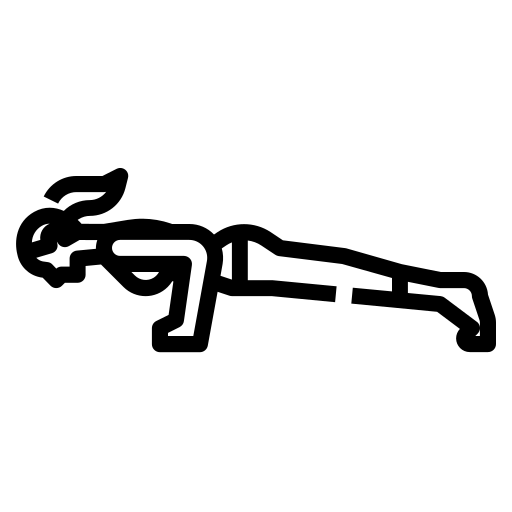
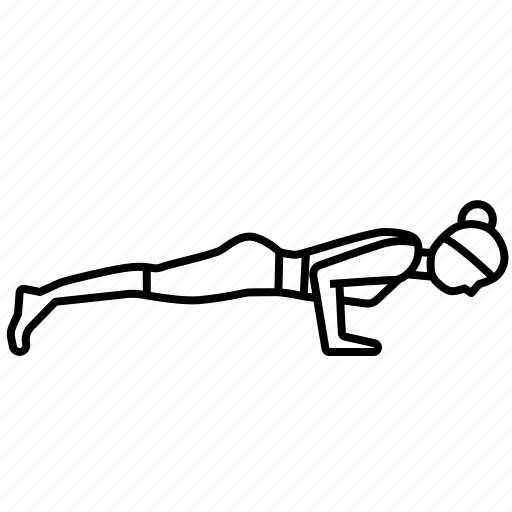
birthday yoga

Changed region(s): [[0.0, 0.3125, 1.0, 0.7188]]

diff --git a/_layouts/yoga.html b/_layouts/yoga.html
@@ -38,7 +38,9 @@ categories: yoga
             <br>
             
             
-           <center>      <iframe style="border-radius:12px" src="https://open.spotify.com/embed/playlist/{{ post.spotify }}?utm_source=generator&theme=0" width="80%" height="152" frameBorder="0" allowfullscreen="" allow="autoplay; clipboard-write; encrypted-media; fullscreen; picture-in-picture" loading="lazy"></iframe> </center> 
+        
+           
+           
     {% endif %}
 
 

diff --git a/_includes/nav.html b/_includes/nav.html
@@ -41,6 +41,9 @@
   
     <li><a href="https://www.linkedin.com/in/rayna-harris-484802ba/" class="icon fa-linkedin" rel="nofollow"><span class="label">LinkedIn</span></a></li>
 
+  <li><a href="https://open.spotify.com/user/22thoad6mmuz725fpqcs5rera" class="icon fa-spotify" rel="me"><span class="label">Spotify</span></a></li>
+  
+
 
   <li><a href="https://twitter.com/raynamharris" class="icon fa-twitter" rel="me"><span class="label">Twitter</span></a></li>
   

diff --git a/assets/css/main.css b/assets/css/main.css
@@ -4491,6 +4491,15 @@
   margin-left: 3%
 }
 
+/* Three image containers (use 25% for four, and 50% for two, etc) */
+.column4 {
+  float: left;
+  width: 20%;
+  padding: 5px;
+  margin-left: 3%
+}
+
+
 /* Clear floats after image containers */
 .row::after {
   content: "";

diff --git a/_posts/2023-10-08-birthday-yoga.md b/_posts/2023-10-08-birthday-yoga.md
@@ -2,24 +2,203 @@
 layout: post
 title: "Birthday Beach Yoga and Breathwork"
 date: 2023-10-08
-excerpt: "A Funky Hip Opening Flow for a Birthday Party on the Beach"
-image: "/images/yoga/butterfly.png"
+excerpt: "For my 40th birthday I organized a beach yoga class. The playlist was designed to bring awareness to the breath and the beauty of nature. It was awesome!"
+image: "/images/yoga/birthday.png"
 categories: yoga
+spotify: 2rf0dgJFl3iaoMGyjNXfpX
 ---
 
+## The Flow
+
+#### Guided Meditation 🎶 *Kusanagi*
+
+<div class="row">
+  <div class="column">
+    <img src="/images/yoga/lotus-meditation.png" alt="Easy Pose" style="width:40%">
+    <figcaption><i>Easy Pose<p></p></i></figcaption>
+</div>
+</div>
 
 
-- **Finally Moving** - Breathwork + Intentions in Mountain or Lotus (depending on vibes)
-- **Love is Alive** - Mountain, Forward Fold, Chair
-- **Money for Nothing** - Corework (Boat, Twisted Boat, Low Boat), Butterfly, Wide angle
-- **Say So** - Wide angle, Godess, Warrior II, Wide angle
-- **Atomic Dog** - Down Dog + Cat Flow, 3 Legged Dog + Lizard Flow, Flipped Dog
-- **Holiday** - Plank + Fallen Star
-- **Evan Finds the 3rd Room** - Seated and reclined twists with wide legs
-- **Fade into You** - Legs up the wall, Hug, Happy Baby
-- **Om** - Shavasan + Breathwork
-- **Kusanagi** - Stretch + Intention + Breathwork + Namas Day + Thanks
+#### Opening Stretch  🎶 *Fantasy*
+
+<div class="row">
+  <div class="column4">
+    <img src="/images/yoga/lions-breath.png" alt="Hero Pose" style="width:40%">
+    <figcaption><i>Hero Pose<p></p></i></figcaption>
+</div>
+  <div class="column4">
+    <img src="/images/yoga/tabletop.png" alt="Table" style="width:40%">
+    <figcaption><i>Table<p></p></i></figcaption>
+  </div>
+  <div class="column4">
+    <img src="/images/yoga/cat.png" alt="Cat" style="width:40%">
+    <figcaption><i>Cat<p></p></i></figcaption>
+  </div>
+  <div class="column4">
+    <img src="/images/yoga/cow.png" alt="Cow" style="width:40%">
+    <figcaption><i>Cow<p></p></i></figcaption>
+  </div>
+</div>
+
+#### Standing Poses  🎶 *Love is Alive*
 
 
+<div class="row">
+  <div class="column4">
+    <img src="/images/yoga/mountain.png" alt="Mountain" style="width:40%">
+    <figcaption><i>Mountain<p></p></i></figcaption>
+  </div>
+  <div class="column4">
+    <img src="/images/yoga/mountain-extended.png" alt="Extended Mountain" style="width:40%">
+    <figcaption><i>Extended Mountain<p></p></i></figcaption>
+  </div>
+  <div class="column4">
+    <img src="/images/yoga/forward-fold-1.png" alt="Forward Fold" style="width:40%">
+    <figcaption><i>Forward Fold<p></p></i></figcaption>
+  </div>
+  <div class="column4">
+    <img src="/images/yoga/chair.png" alt="Chair" style="width:40%">
+    <figcaption><i>Chair<p></p></i></figcaption>
+  </div>
+</div>
+
+#### Core Work  🎶 *Money for Nothing*
+
+<div class="row">
+  <div class="column4">
+    <img src="/images/yoga/tree.png" alt="Tree" style="width:40%">
+    <figcaption><i>Tree<p></p></i></figcaption>
+  </div>
+  <div class="column4">
+    <img src="/images/yoga/boat.png" alt="Boat" style="width:40%">
+    <figcaption><i>Boat<p></p></i></figcaption>
+  </div>
+  <div class="column4">
+    <img src="/images/yoga/butterfly.png" alt="Butterfly" style="width:40%">
+    <figcaption><i>Butterfly<p></p></i></figcaption>
+  </div>
+  <div class="column4">
+    <img src="/images/yoga/stretching.png" alt="Stretching" style="width:40%">
+    <figcaption><i>Forward Fold<p></p></i></figcaption>
+  </div>
+</div>
+
+
+#### Leg Work  🎶 *Say So*
+
+<div class="row">
+  <div class="column4">
+    <img src="/images/yoga/star.png" alt="star" style="width:40%">
+    <figcaption><i>Star<p></p></i></figcaption>
+  </div>
+  <div class="column4">
+    <img src="/images/yoga/goddess.png" alt="Goddess" style="width:40%">
+    <figcaption><i>Goddess<p></p></i></figcaption>
+  </div>
+  <div class="column4">
+    <img src="/images/yoga/warrior2-2.png" alt="Warrior II" style="width:40%">
+    <figcaption><i>Warrior II<p></p></i></figcaption>
+  </div>
+   <div class="column4">
+    <img src="/images/yoga/extended.png" alt="Side Angle Pose" style="width:40%">
+    <figcaption><i>Side Angle Pose<p></p></i></figcaption>
+  </div>
+</div>
+
+#### Arm Work 🎶 *Holiday* 
+
+
+<div class="row">
+  <div class="column4">
+    <img src="/images/yoga/plank.png" alt="plank" style="width:40%">
+    <figcaption><i>Plank<p></p></i></figcaption>
+  </div>
+  <div class="column4">
+    <img src="/images/yoga/down-dog-2.png" alt="Down Dog" style="width:40%">
+    <figcaption><i>Down Dog<p></p></i></figcaption>
+  </div>
+  <div class="column4">
+    <img src="/images/yoga/handstand.png" alt="3 Leg Dog" style="width:40%">
+    <figcaption><i>3 Leg Dog<p></p></i></figcaption>
+  </div>
+   <div class="column4">
+    <img src="/images/yoga/lunge-extended-2.png" alt="Low Lunge" style="width:40%">
+    <figcaption><i>Low Lunge<p></p></i></figcaption>
+  </div>
+</div>
+
+
+#### Balancing Poses 🎶 *Kick Push*
+
+<div class="row">
+  <div class="column4">
+    <img src="/images/yoga/lunge.png" alt="High Lunge" style="width:40%">
+    <figcaption><i>High Lunge<p></p></i></figcaption>
+  </div>
+  
+  <div class="column4">
+    <img src="/images/yoga/warrior-3.png" alt="Airplane" style="width:40%">
+    <figcaption><i>Airplane<p></p></i></figcaption>
+  </div>
+  
+  <div class="column4">
+    <img src="/images/yoga/standing-split.png" alt="Standing Split" style="width:40%">
+    <figcaption><i>Standing Split<p></p></i></figcaption>
+  </div>
+ <div class="column4">
+    <img src="/images/yoga/warrior-3.png" alt="Airplane" style="width:40%">
+    <figcaption><i>Airplane<p></p></i></figcaption>
+  </div>
+  
+</div>
+
+
+#### Floor Work  🎶 *Evan Finds the 3rd Room*
+
+
+<div class="row">
+  <div class="column4">
+    <img src="/images/yoga/yoga-position.png" alt="Seated Twists" style="width:40%">
+    <figcaption><i>Seated Twists<p></p></i></figcaption>
+  </div>
+  
+  <div class="column4">
+    <img src="/images/yoga/reclined-twist.png" alt="reclined-twist" style="width:40%">
+    <figcaption><i>Reclined-Twist<p></p></i></figcaption>
+  </div>
+  
+  <div class="column4">
+    <img src="/images/yoga/bridge.png" alt="Bridge" style="width:40%">
+    <figcaption><i>Bridge<p></p></i></figcaption>
+  </div>
+ <div class="column4">
+    <img src="/images/yoga/hug.png" alt="Hug" style="width:40%">
+    <figcaption><i>Hug<p></p></i></figcaption>
+  </div>
+  
+</div>
+
+#### Relaxation 🎶 *Om*
+
+<div class="row">
+<div class="column">
+    <img src="/images/yoga/shavasana.png" alt="Shavasana" style="width:50%">
+    <figcaption><i>Shavasana<p></p></i></figcaption>
+  </div>
+    </div>
 
 <iframe style="border-radius:12px" src="https://open.spotify.com/embed/playlist/2rf0dgJFl3iaoMGyjNXfpX?utm_source=generator&theme=0" width="100%" height="152" frameBorder="0" allowfullscreen="" allow="autoplay; clipboard-write; encrypted-media; fullscreen; picture-in-picture" loading="lazy"></iframe>
+
+
+_Note: The black and white yoga icons from created by <a href="https://www.flaticon.com/free-icons/workout" title=" workout icons">dDara </a>, <a href="https://www.flaticon.com/free-icons/exercise" title="exercise icons">monkik</a>, <a href="https://www.flaticon.com/free-icons/yoga" title="yoga icons">Freepik </a>, <a href="https://www.flaticon.com/free-icons/exercise" title="exercise icons">Vitaly Gorbachev</a>, and <a href="https://www.flaticon.com/free-icons/yoga-pose" title="yoga pose icons">Eideticmemo</a>._
+
+## The Invitation
+
+I had almost as much fun making invitations for the event as I did hosting it. Here's the image I sent to a few friends to invite them. 
+
+![](/images/yoga/birthday-invite.png)
+
+## Notes 
+
+_The black and white yoga icons from created by <a href="https://www.flaticon.com/free-icons/workout" title=" workout icons">dDara </a>, <a href="https://www.flaticon.com/free-icons/exercise" title="exercise icons">monkik</a>, <a href="https://www.flaticon.com/free-icons/yoga" title="yoga icons">Freepik </a>, <a href="https://www.flaticon.com/free-icons/exercise" title="exercise icons">Vitaly Gorbachev</a>, and <a href="https://www.flaticon.com/free-icons/yoga-pose" title="yoga pose icons">Eideticmemo</a>._

diff --git a/_posts/2023-09-19-science-yoga.md b/_posts/2023-09-19-science-yoga.md
@@ -1,13 +1,13 @@
 ---
 layout: post
 title: "From Teaching Science to Teaching Yoga"
-date: 2023-09-22
+date: 2023-10-22
 excerpt: "A post about transitions from teaching computation biology to yoga."
 image: "/images/yoga/SWC.png"
 categories: teaching yoga
 ---
-
-I wanted a PhD so that I could be a Professor anywhere in the world. But in the process of getting my PhD, I taught work shops all over the world, and I realized that being a Professor didn't involve as much teaching or the lifestyle I wanted. I'm learning that there are many opportunities for teaching outside academia that you can do anywhere and on your own time.
+ 
+When I was like 20 and in college, I wanted a PhD because I thought that I needed to be a Professor to teach biology anywhere in the world. But in the process of obtaining my PhD, I gave lectures and taught workshops all over the world, so I achieved that goal, AND I realized that being a Professor didn't involve as much teaching or the lifestyle I wanted. I'm learning that there are many opportunities for teaching outside academia that you can do anywhere and on your own time.
 
 I've been practiced yoga infrequently for about 20 years, regularly during my last year of graduate school. I daydreamed of becoming a SUP Yoga Instructor, but I put that idea on the back burner and focus on getting a "real job". I thought I had to chose science or yoga, but now I think the two are quite complementary. 
 
